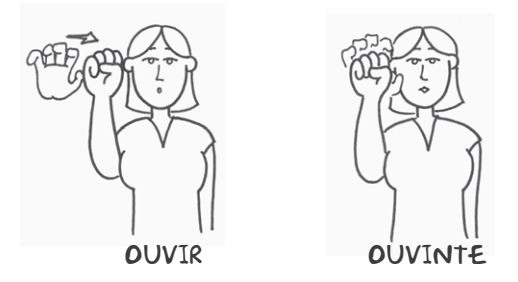
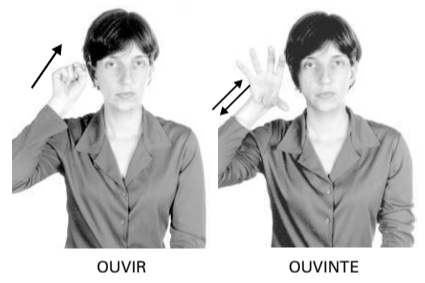
Progresso parcial (Morfologia / derivação)

diff --git a/capitulos/fundamentacao/linguistica_lingua_sinais.tex b/capitulos/fundamentacao/linguistica_lingua_sinais.tex
@@ -274,33 +274,147 @@ A morfologia é o estudo da estrutura interna e das regras que determinam a form
 
 Assim como as palavras em todas as línguas humanas, os sinais pertencem a categorias lexicais ou a classes de palavras tais como substantivo, verbo, pronome, adjetivo, advérbio, numerais, entre outras. A língua de sinais tem um léxico e um sistema de criação de novos sinais em que os morfemas são combinados. Entretanto, essas línguas diferem-se das línguas orais nos tipos de processos combinatórios que frequentemente criam palavras morfologicamente complexas. 
 
-Para as línguas orais, palavras complexas são muitas vezes formadas pela adição de um prefixo ou sufixo a uma raiz, como por exemplo \textit{des-}, \textit{ante-}, \textit{hiper-}, \textit{-ão}, \textit{-dade}, \textit{-ência}, entre outros. Nas línguas de sinais, essas formas resultam frequentemente de processos não-concatenativos em que uma raiz é enriquecida com vários movimentos e contornos no espaço de sinalização. São utilizadas expressões não-manuais, alterações nos parâmetros fonológicos ou sinais diferentes para indicar tempo, grau, intensidade, pluralidade, aspecto, entre outros~\cite{klima-bellugi-1975-wit-poetry-asl,quadros-2004-estudos-linguisticos}.
+Para as línguas orais, palavras complexas são muitas vezes formadas pela adição de um prefixo ou sufixo a uma raiz, como por exemplo \textit{des-}, \textit{ante-}, \textit{hiper-}, \textit{-ão}, \textit{-dade}, \textit{-ência}, entre outros. Por exemplo, o adjetivo ``infeliz'' é constituído de dois morfemas -- o prefixo negativo \textit{in-} e o adjetivo \textit{feliz} --; também o substantivo ``capacidade'' é composto do adjetivo \textit{capaz} e acrescido do sufixo \textit{-idade}; já o substantivo ``guarda-chuva'' é constituído pelos morfemas \textit{guarda} e \textit{chuva}.
 
-Por exemplo, no português, substantivos como ``boi'', ``sal'', e ``mar'' são constituídos de um único morfema -- ou seja,  são monomorfêmicos; o adjetivo ``infeliz'' é constituído de dois morfemas -- o prefixo negativo \textit{in-} e o adjetivo \textit{feliz} --; também o substantivo ``capacidade'' é composto do adjetivo \textit{capaz} e acrescido do sufixo \textit{-idade}; já o substantivo ``guarda-chuva'' é constituído pelos morfemas \textit{guarda} e \textit{chuva}.
+Nas línguas de sinais, essas formas resultam frequentemente de processos em que uma raiz é enriquecida com vários movimentos e contornos no espaço de sinalização. São utilizadas expressões não-manuais, alterações nos parâmetros fonológicos ou sinais específicos para indicar tempo, grau, intensidade, pluralidade, aspecto, entre outros~\cite{klima-bellugi-1975-wit-poetry-asl,quadros-2004-estudos-linguisticos}.
+
+De acordo com \citeonline{quadros-2004-estudos-linguisticos}, a morfologia tradicional apresenta dois processos de formação de palavras, a derivação e a flexão, os quais exploraremos a seguir:
+
+% A morfologia tradicional apresenta basicamente duas áreas de investiga-  ção: a derivacional e a flexional. A primeira detém-se ao estudo da formação de  diferentes palavras com uma mesma base lexical, por exemplo, no português  ‘sonhador’ é derivado de ‘sonhar’. A segunda envolve o estudo dos processos  que acrescentam informação gramatical à palavra que já existe.
+
+
+\begin{enumerate}
+    \item \textbf{Derivação}: consiste na formação de diferentes palavras a partir de uma mesma base lexical, como nos exemplos ``infeliz'' e ``capacidade'' introduzidos anteriormente. Na língua de sinais, alguns dos processos derivacionais incluem:
+    
+    % detém-se ao estudo da formação de  diferentes palavras com uma mesma base lexical, por exemplo, no português  ‘sonhador’ é derivado de ‘sonhar’.
+
+    \begin{enumerate}
+        \item \textbf{Nominalização} (ou derivação de nomes de verbos): uma das principais funções da morfologia é a mudança de classe, ou seja, a utilização do significado de uma palavra em uma outra classe gramatical.
+        Na língua de sinais, forma-se um novo sinal para se utilizar o significado de um sinal existente num contexto que requer uma classe gramatical diferente. 
+        
+        Um dos processos mais comuns nesse âmbito é a derivação de nomes a partir de verbos (ou vice-versa). Isso ocorre pela mudança no tipo de movimento, ou seja, apesar de apresentarem a mesma locação, configuração e orientação de mão, os nomes simplesmente repetem (ou reduplicam) a estrutura segmental dos verbos (vide \autoref{fig:sinais-pentear-pente} e \autoref{fig:sinais-ouvir-ouvinte}).
+        
+        \figura[p. 98]
+            {fig:sinais-pentear-pente} % Label
+            {imagens/fundamentacao/sinais_pentear_pente} % Path
+            {width=0.5\linewidth} % Size
+            {Sinal PENTE (à direita), que repete o movimento do verbo PENTEAR (à esquerda)} % Caption
+            {quadros-2004-estudos-linguisticos} % Citation
+        
+        \figura[p. 98]
+            {fig:sinais-ouvir-ouvinte} % Label
+            {imagens/fundamentacao/sinais_ouvir_ouvinte} % Path
+            {width=0.5\linewidth} % Size
+            {Sinal OUVINTE (à direita), que repete o movimento do verbo OUVIR (à esquerda)} % Caption
+            {quadros-2004-estudos-linguisticos} % Citation
+        
+
+        % Seguindo proposta de Supalla e Newport (1978) para a ASL, observa-se  que a língua de sinais brasileira pode derivar nomes de verbos pela mudança no tipo de movimento. O movimento dos nomes repete e encurta o movimento dos verbos, conforme exemplo da figura a seguir. 
+
+        % Supalla e Newport focalizam a análise do movimento e descrevem as  diferenças entre o movimento do verbo e do nome em detalhes, concluindo  que os pares apresentam a mesma locação, configuração e orientação de mão,  e que o nome simplesmente repete ou reduplica a estrutura segmental do  verbo, conforme exemplos a seguir. 
+        % Esse processo de repetição é chamado reduplicação. Semelhante à  nominalização no português, na língua de sinais brasileira repete-se o morfemabase (verbo) e tem-se como produto um nome. O processo de adicionar  morfemas a uma forma base é uma forma de criar novas unidades lexicais. 
+
+
+        \item \textbf{Composição}: processo em que se juntam duas bases preexistentes na língua para criar um novo vocábulo (ou composto). São exemplos de composição no português: trem-de-ferro, aguardente, ciclovia, entre outros.
+        
+        Na língua de sinais, três regras são utilizadas para criar compostos: a regra do contato (onde o contato existente no primeiro ou segundo sinal utilizado na composição é mantido, como na \autoref{fig:sinal-escola}), a regra da sequência única (onde o movimento interno ou repetição dos sinais é eliminada para formar o composto, como na \autoref{fig:sinal-pais}), e a regra da antecipação da mão não-dominante (onde a mão passiva antecipa o segundo sinal no processo de composição, como na \autoref{fig:sinal-acidente}).
+
+        \figura[p. 103]
+            {fig:sinal-escola} % Label
+            {imagens/fundamentacao/sinal_escola} % Path
+            {width=0.5\linewidth} % Size
+            {Sinal ESCOLA (composição de CASA e ESTUDAR)} % Caption
+            {quadros-2004-estudos-linguisticos} % Citation
+
+        \figura[p. 104]
+            {fig:sinal-pais} % Label
+            {imagens/fundamentacao/sinal_pais} % Path
+            {width=0.7\linewidth} % Size
+            {Sinal PAIS (à direita), composto por PAI (à esquerda) e MÃE (à direita)} % Caption
+            {quadros-2004-estudos-linguisticos} % Citation
+
+        \figura[p. 105]
+            {fig:sinal-acidente} % Label
+            {imagens/fundamentacao/sinal_acidente} % Path
+            {width=0.5\linewidth} % Size
+            {Sinal ACIDENTE (composição de CARRO e BATER)} % Caption
+            {quadros-2004-estudos-linguisticos} % Citation
+
+
+        % Segundo Rocha (1998, p. 187), a  composição é um processo autônomo em que se juntam duas bases preexistentes  na língua para criar um novo vocábulo, dito composto. São exemplos de composição no português:  Trem-de-ferro  Aguardente  Salário-família  Cadeira de balanço  Lipoaspiração  Ciclovia 
+
+        % Scott Liddel (1984) desenvolveu estudos sobre os compostos na ASL. Ele  observou que dois sinais formam um sinal composto quando mudanças  predicáveis ocorrem como o resultado de aplicação de regras, da mesma forma como acontece com palavras da língua inglesa. Ele apresenta dois tipos de  regras que causam as mudanças – regras morfológicas e regras fonológicas.  
+        % Regras morfológicas são aplicadas especificamente para criar novas unidades com significados (compostos). Três regras morfológicas são usadas para  criar compostos na ASL: (1) a regra do contato; (2) a regra da seqüência  única e (3) a regra da antecipação da mão não-dominante. Será observada a  aplicação de tais regras na língua de sinais brasileira. 
+
+        
+
+        \item \textbf{Incorporação de numeral}: nesse processo, morfemas são combinados com a configuração de mão de números para prover significado adicional ao sinal. Isso ocorre comumente para indicar variação do número de anos, dias, horas, minutos, entre outros. Por exemplo, a mudança na configuração de mão para 1, 2, 3 ou 4 na \autoref{fig:sinais-numero-meses} altera também o número de meses referido no sinal.
+        
+        \figura[p. 107]
+            {fig:sinais-numero-meses} % Label
+            {imagens/fundamentacao/sinais_numero_meses} % Path
+            {width=0.8\linewidth} % Size
+            {Sinais UM MÊS, DOIS MESES, TRÊS MESES, e QUATRO MESES} % Caption
+            {quadros-2004-estudos-linguisticos} % Citation
+
+
+
+        \item \textbf{Incorporação de negação}: é possível dar origem à contraparte negativa de um sinal pela alteração de um de seus parâmetros (geralmente o movimento), conforme exemplifica a \autoref{fig:sinais-saber-naosaber}.
+        
+        \figura[p. 111]
+            {fig:sinais-saber-naosaber} % Label
+            {imagens/fundamentacao/sinais_saber_naosaber} % Path
+            {width=0.5\linewidth} % Size
+            {Sinal SABER e sua negação NÃO SABER} % Caption
+            {quadros-2004-estudos-linguisticos} % Citation
+
+        Pode-se também marcar essa negação pela adição de uma expressão facial, sem que haja alteração nos parâmetros do sinal (vide \autoref{fig:sinais-conhecer-naoconhecer}).
+
+        \figura[p. 111]
+            {fig:sinais-conhecer-naoconhecer} % Label
+            {imagens/fundamentacao/sinais_conhecer_naoconhecer} % Path
+            {width=0.5\linewidth} % Size
+            {Sinal CONHECER e sua negação NÃO CONHECER} % Caption
+            {quadros-2004-estudos-linguisticos} % Citation
+
+        % Há também outro processo produtivo na língua de sinais brasileira que é a  incorporação da negação. Há alguns sinais que podem incorporar a negação conforme identificado por Ferreira-Brito (1995). A autora menciona que “através de  vários processos, o item a ser negado sofre alteração em um dos parâmetros,  especialmente o parâmetro Movimento, acarretando, assim, o aparecimento de  um item de estrutura ‘fonético-fonológico’ diferente daquele que é a sua base, ou  seja, o aparecimento de sua contraparte negativa” (Ferreira-Brito, 1995, p. 77).  Alguns dos exemplos elencados pela autora foram os seguintes: 
+
+        % Além da incorporação da negação nos sinais, há a negação de forma  marcada através da expressão facial incorporada ao sinal sem alteração de  nenhum dos parâmetros. Este caso é relacionado por Ferreira-Brito (1995)  como negação supra-segmental. 
+
+    \end{enumerate}
+
+
+    \item \textbf{Flexão}:
+    
+    % envolve o estudo dos processos  que acrescentam informação gramatical à palavra que já existe.
+
+\end{enumerate}
+
+
 
 %Na língua de sinais, não há sinais para afixos como \textit{in-}, \textit{-idade}, entre outros, que alteram o significado das palavras. Em vez disso, são utilizadas expressões não-manuais, alterações nos parâmetros fonológicos ou sinais diferentes para indicar tempo, grau, intensidade, pluralidade, aspecto e muito mais. 
 
-Observe na \autoref{fig:sinais-sentar-cadeira} os sinais SENTAR e CADEIRA da \acrshort{libras}. Eles possuem a mesma configuração de mãos, locação e orientação das palmas das mãos. No entanto, o movimento é o parâmetro que os diferencia: é mais longo em SENTAR e mais curto e repetido em CADEIRA: 
+% Observe na \autoref{fig:sinais-sentar-cadeira} os sinais SENTAR e CADEIRA da \acrshort{libras}. Eles possuem a mesma configuração de mãos, locação e orientação das palmas das mãos. No entanto, o movimento é o parâmetro que os diferencia: é mais longo em SENTAR e mais curto e repetido em CADEIRA: 
 
 %Em ASL, não há sinais para afixos como “en”, “ing”, “ly” etc. para alterar o significado das palavras. 
 %Em vez disso, o ASL usa marcadores não manuais, alterações nos parâmetros e outros sinais para indicar tempo, grau, intensidade, pluralidade, aspecto e muito mais.
 
-\figura[p. 70]
-    {fig:sinais-sentar-cadeira} % Label
-    {imagens/fundamentacao/sinais_sentar_cadeira} % Path
-    {width=0.5\linewidth} % Size
-    {Sinais SENTAR e CADEIRA da \acrshort{libras}} % Caption
-    {pereira-2011-conhecimento-alem-sinais} % Citation
+% \figura[p. 70]
+%     {fig:sinais-sentar-cadeira} % Label
+%     {imagens/fundamentacao/sinais_sentar_cadeira} % Path
+%     {width=0.5\linewidth} % Size
+%     {Sinais SENTAR e CADEIRA da \acrshort{libras}} % Caption
+%     {pereira-2011-conhecimento-alem-sinais} % Citation
 
 
-Algo semelhante ocorre com os sinais OUVIR e OUVINTE (vide \autoref{fig:sinais-ouvir-ouvinte}): o movimento de fechar as mãos próximo ao ouvido é mais curto e repetido em OUVINTE, enquanto que no sinal OUVIR, onde a mão se desloca em direção ao ouvido.
+% Algo semelhante ocorre com os sinais OUVIR e OUVINTE (vide \autoref{fig:sinais-ouvir-ouvinte}): o movimento de fechar as mãos próximo ao ouvido é mais curto e repetido em OUVINTE, enquanto que no sinal OUVIR, onde a mão se desloca em direção ao ouvido.
 
-\figura[p. 71]
-    {fig:sinais-ouvir-ouvinte} % Label
-    {imagens/fundamentacao/sinais_ouvir_ouvinte} % Path
-    {width=0.5\linewidth} % Size
-    {Sinais OUVIR e OUVINTE da \acrshort{libras}} % Caption
-    {pereira-2011-conhecimento-alem-sinais} % Citation
+% \figura[p. 71]
+%     {fig:sinais-ouvir-ouvinte} % Label
+%     {imagens/fundamentacao/sinais_ouvir_ouvinte} % Path
+%     {width=0.5\linewidth} % Size
+%     {Sinais OUVIR e OUVINTE da \acrshort{libras}} % Caption
+%     {pereira-2011-conhecimento-alem-sinais} % Citation
 
 
 % A morfologia é o ramo da linguística que estuda como as palavras são formadas a partir de partes componentes. Um morfema é geralmente descrito como um par consistente de forma (por exemplo, uma sequência de sons ou uma combinação de formato de mão, localização e movimento) e significado, mas existem morfemas que mudam de forma em diferentes contextos, bem como aqueles que não mudam. t parecem ter um significado consistente. \cite{hill-2019-sign-languages}
@@ -310,104 +424,104 @@ Algo semelhante ocorre com os sinais OUVIR e OUVINTE (vide \autoref{fig:sinais-o
 
 
 % TODO: revisar este prefácio:
-\citeonline{jay-2011-dont-just-sign} descreve a morfologia da língua de sinais em termos dos seguintes elementos:
+% \citeonline{jay-2011-dont-just-sign} descreve a morfologia da língua de sinais em termos dos seguintes elementos:
  
-\begin{enumerate}
-    \item \textbf{Flexões (advérbios)}: advérbios podem modificar adjetivos, verbos, ou outros advérbios para indicar tempo, local, forma, causa, ou intensidade. Como não há sinais específicos na língua de sinais para os advérbios, eles são criados através da adição de flexões, as quais podem incluir: o uso de expressões faciais mais intensas, o aumento ou diminuição da velocidade de sinalização, o uso de movimentos mais maiores ou mais largos, a sinalização mais nítida ou detalhada de um sinal, o aceno mais rápido ou mais vagaroso com a cabeça, entre outros.
+% \begin{enumerate}
+%     \item \textbf{Flexões (advérbios)}: advérbios podem modificar adjetivos, verbos, ou outros advérbios para indicar tempo, local, forma, causa, ou intensidade. Como não há sinais específicos na língua de sinais para os advérbios, eles são criados através da adição de flexões, as quais podem incluir: o uso de expressões faciais mais intensas, o aumento ou diminuição da velocidade de sinalização, o uso de movimentos maiores ou mais largos, a sinalização mais detalhada de um sinal, o aceno mais rápido ou vagaroso com a cabeça, entre outros.
     
-    Sinais diferentes são normalmente flexionados de maneiras diferentes. Sendo assim, a flexão dependerá principalmente do sinal que estiver sendo utilizado. A imagem \autoref{fig:sinais-lindo-lindinho-lindissimo} mostra o exemplo do sinal LINDO que é flexionado utilizando expressões faciais para transmitir a ideia de ``pouco'' e ``muito'' lindo, respectivamente nos sinais LINDINHO e LINDÍSSIMO.
+%     Sinais diferentes são normalmente flexionados de maneiras diferentes. A imagem \autoref{fig:sinais-lindo-lindinho-lindissimo} mostra o exemplo do sinal LINDO que é flexionado utilizando expressões faciais para transmitir a ideia de ``pouco'' e ``muito'' lindo, respectivamente nos sinais LINDINHO e LINDÍSSIMO.
     
-    \figura[p. 65]
-        {fig:sinais-lindo-lindinho-lindissimo} % Label
-        {imagens/fundamentacao/sinais_lindo_lindinho_lindissimo} % Path
-        {width=0.5\linewidth} % Size
-        {Sinais LINDO, LINDINHO e LINDÍSSIMO da \acrshort{libras}} % Caption
-        {pereira-2011-conhecimento-alem-sinais} % Citation
+%     \figura[p. 65]
+%         {fig:sinais-lindo-lindinho-lindissimo} % Label
+%         {imagens/fundamentacao/sinais_lindo_lindinho_lindissimo} % Path
+%         {width=0.5\linewidth} % Size
+%         {Sinais LINDO, LINDINHO e LINDÍSSIMO da \acrshort{libras}} % Caption
+%         {pereira-2011-conhecimento-alem-sinais} % Citation
 
-    \item \textbf{Pares substantivo-verbo}: pares substantivo-verbo são sinais que usam o mesmo formato de mão, locação e orientação, mas usam um movimento diferente para indicar a diferença entre o substantivo e o verbo. Um verbo sinalizado geralmente tem um movimento único e contínuo, enquanto um substantivo geralmente tem um movimento duplo.  
-    Um exemplo disso é ilustrado para os sinais SENTAR e CADEIRA na \autoref{fig:sinais-sentar-cadeira}.
+%     \item \textbf{Pares substantivo-verbo}: pares substantivo-verbo são sinais que utilizam o mesmo formato de mão, locação e orientação, mas usam movimentos distintos para  diferenciar entre substantivo e verbo. Um verbo sinalizado geralmente tem um movimento único e contínuo, enquanto um substantivo geralmente tem um movimento duplo.  
+%     Um exemplo disso é ilustrado para os sinais SENTAR e CADEIRA na \autoref{fig:sinais-sentar-cadeira}.
     
 
-    \item \textbf{Classificadores}: línguas faladas são lineares, ou seja, são expressas uma palavra após a outra. As línguas de sinal, no entanto, são espaciais e expressas no espaço ao redor do sinalizador. Nesse contexto, os classificadores criam profundidade e adicionam clareza, movimento e detalhes às conversas e explicações.
+%     \item \textbf{Classificadores}: línguas faladas são lineares, ou seja, são expressas uma palavra após a outra. As línguas de sinais, no entanto, são espaciais e expressas no espaço ao redor do sinalizador. Nesse contexto, os classificadores criam profundidade e adicionam clareza, movimento e detalhes às conversas e explicações.
 
-    Faz muito mais sentido criar pessoas, animais ou objetos imaginários no espaço de enunciação e mostrar o que acontece com eles em vez de explicar cada palavra de forma linear como você faria oralmente. No entanto, assim como se faz com pronomes na língua falada, não se pode utilizar um classificador em uma frase até explicar o que o ele representa -- ou seja, é necessário primeiro estabelecer o substantivo.
+%     Faz mais sentido criar pessoas, animais ou objetos imaginários no espaço de enunciação e mostrar o que acontece com eles em vez de explicar cada palavra de forma linear como você faria oralmente. No entanto, assim como se faz com pronomes na língua falada, não se pode utilizar um classificador em uma frase até explicar o que o ele representa -- ou seja, é necessário primeiro estabelecer o substantivo.
 
-    A \autoref{fig:sinais-pessoas-andar-cair} ilustra um classificador comumente utilizado para referir-se a DUAS PESSOAS. Combinado ao movimento de ANDAR, é interpretado como DUAS PESSOAS ANDAM; combinado ao movimento de CAIR, é interpretado como DUAS PESSOAS CAEM.
+%     A \autoref{fig:sinais-pessoas-andar-cair} ilustra um classificador comumente utilizado para referir-se a DUAS PESSOAS. Combinado ao movimento de ANDAR, é interpretado como DUAS PESSOAS ANDAM; combinado ao movimento de CAIR, é interpretado como DUAS PESSOAS CAEM.
 
-    \figura[p. 83]
-        {fig:sinais-pessoas-andar-cair} % Label
-        {imagens/fundamentacao/sinais_pessoas_andar_cair} % Path
-        {width=0.5\linewidth} % Size
-        {Classificador utilizado para DUAS PESSOAS, combinado aos movimentos de ANDAR e CAIR} % Caption
-        {pereira-2011-conhecimento-alem-sinais} % Citation
+%     \figura[p. 83]
+%         {fig:sinais-pessoas-andar-cair} % Label
+%         {imagens/fundamentacao/sinais_pessoas_andar_cair} % Path
+%         {width=0.5\linewidth} % Size
+%         {Classificador utilizado para DUAS PESSOAS, combinado aos movimentos de ANDAR e CAIR} % Caption
+%         {pereira-2011-conhecimento-alem-sinais} % Citation
 
-    Há um número infinito de classificadores e pode-se combinar praticamente qualquer forma de mão com qualquer movimento e locação para criar um classificador.
-    Alguns dos diferentes tipos de classificadores incluem: integrais (que representam um objeto inteiro), de superfícies, de instrumentos, de proporção (tamanho ou profundidade), de quantidade, de forma, de localização, de gestos, de partes do corpo (realizando uma ação), de verbos (que mostram como uma ação é realizada), ou de plural (que representam múltiplos itens).
-
-
-    % Línguas faladas como o inglês são lineares — são expressas uma palavra após a outra. ASL, no entanto, é uma linguagem espacial e é expressa no espaço ao seu redor. Os classificadores criam profundidade e adicionam clareza, movimento e detalhes às conversas e explicações.
-    % Em ASL, faz muito mais sentido criar pessoas, animais ou objetos imaginários em seu espaço de sinalização e mostrar o que acontece com eles em vez de explicar cada palavra de forma linear como você faria em inglês.
-    % As formas de mão e os movimentos dos classificadores podem representar pessoas, animais, objetos, etc. e mostrar movimentos, formas, ações e locais. Eles podem mostrar uma pessoa andando, um animal mastigando, alguém dirigindo, um carro passando pelas montanhas — praticamente qualquer coisa!
-    % Em uma frase, um classificador é muito semelhante a um pronome. Você não pode usar um classificador em uma frase até explicar o que o classificador representa. Não são palavras isoladas. Você precisa estabelecer o substantivo antes de aplicar o classificador.
-    % Um exemplo de classificador seria mostrar uma pessoa andando. Você primeiro tem que estabelecer essa pessoa como um referente no contexto e apontar para o referente, e então você pode pegar o dedo indicador de sua mão dominante (o classificador CL: 1) e movê-lo pelo seu espaço de sinalização. O que quer que você faça com este classificador é o que a pessoa está fazendo. Você também pode flexionar o sinal para um significado adicional. Quanto mais rápido ou mais devagar você mover esse classificador, mostra o quão rápido ou lento a pessoa está realizando uma ação. Você também pode usar marcadores não manuais para mostrar como a pessoa está se sentindo ao fazê-lo. E como a maioria das formas de mão do classificador representa uma pessoa ou objeto inteiro, você pode combinar classificadores como CL: 1(pessoa) com outro classificador como CL: 3(carro) para mostrar uma pessoa e um carro e suas localizações em relação um ao outro. Aqui estão dois exemplos de uso de classificadores com as duas mãos ao mesmo tempo:
-    % [...]
-    % Há um número infinito de classificadores que você pode usar. Você pode combinar quase qualquer forma de mão com qualquer movimento e localização para criar um classificador.
+%     Há um número infinito de classificadores e pode-se combinar praticamente qualquer forma de mão com qualquer movimento e locação para criar um classificador.
+%     Alguns dos diferentes tipos de classificadores incluem: integrais (que representam um objeto inteiro), de superfícies, de instrumentos, de proporção (tamanho ou profundidade), de quantidade, de forma, de localização, de gestos, de partes do corpo (realizando uma ação), de verbos (que mostram como uma ação é realizada), ou de plural (que representam múltiplos itens).
 
 
-    \item \textbf{Verbos}: há três tipos principais de verbos na língua de sinais: verbos simples, que não se flexionam em pessoa e número, e não incorporam afixos locativos (vide exemplos na \autoref{fig:verbos-simples});
-    verbos direcionais, que flexionam-se em pessoa, número e aspecto, mas não incorporam afixos locativos (vide \autoref{fig:verbos-direcionais}); e
-    verbos espaciais, que incorporam afixos locativos (vide \autoref{fig:verbos-espaciais}).
+%     % Línguas faladas como o inglês são lineares — são expressas uma palavra após a outra. ASL, no entanto, é uma linguagem espacial e é expressa no espaço ao seu redor. Os classificadores criam profundidade e adicionam clareza, movimento e detalhes às conversas e explicações.
+%     % Em ASL, faz muito mais sentido criar pessoas, animais ou objetos imaginários em seu espaço de sinalização e mostrar o que acontece com eles em vez de explicar cada palavra de forma linear como você faria em inglês.
+%     % As formas de mão e os movimentos dos classificadores podem representar pessoas, animais, objetos, etc. e mostrar movimentos, formas, ações e locais. Eles podem mostrar uma pessoa andando, um animal mastigando, alguém dirigindo, um carro passando pelas montanhas — praticamente qualquer coisa!
+%     % Em uma frase, um classificador é muito semelhante a um pronome. Você não pode usar um classificador em uma frase até explicar o que o classificador representa. Não são palavras isoladas. Você precisa estabelecer o substantivo antes de aplicar o classificador.
+%     % Um exemplo de classificador seria mostrar uma pessoa andando. Você primeiro tem que estabelecer essa pessoa como um referente no contexto e apontar para o referente, e então você pode pegar o dedo indicador de sua mão dominante (o classificador CL: 1) e movê-lo pelo seu espaço de sinalização. O que quer que você faça com este classificador é o que a pessoa está fazendo. Você também pode flexionar o sinal para um significado adicional. Quanto mais rápido ou mais devagar você mover esse classificador, mostra o quão rápido ou lento a pessoa está realizando uma ação. Você também pode usar marcadores não manuais para mostrar como a pessoa está se sentindo ao fazê-lo. E como a maioria das formas de mão do classificador representa uma pessoa ou objeto inteiro, você pode combinar classificadores como CL: 1(pessoa) com outro classificador como CL: 3(carro) para mostrar uma pessoa e um carro e suas localizações em relação um ao outro. Aqui estão dois exemplos de uso de classificadores com as duas mãos ao mesmo tempo:
+%     % [...]
+%     % Há um número infinito de classificadores que você pode usar. Você pode combinar quase qualquer forma de mão com qualquer movimento e localização para criar um classificador.
 
-    \figura[p. 76]
-        {fig:verbos-simples} % Label
-        {imagens/fundamentacao/verbos_simples} % Path
-        {width=0.5\linewidth} % Size
-        {Verbos simples DIRIGIR, COMER, e PARECER} % Caption
-        {pereira-2011-conhecimento-alem-sinais} % Citation
 
-    \figura[p. 77]
-        {fig:verbos-direcionais} % Label
-        {imagens/fundamentacao/verbos_direcionais} % Path
-        {width=0.5\linewidth} % Size
-        {Verbos direcionais PERGUNTAR e RESPONDER} % Caption
-        {pereira-2011-conhecimento-alem-sinais} % Citation
+%     \item \textbf{Verbos}: há três tipos principais de verbos na língua de sinais: verbos simples, que não se flexionam em pessoa e número, e não incorporam afixos locativos (vide exemplos na \autoref{fig:verbos-simples});
+%     verbos direcionais, que flexionam-se em pessoa, número e aspecto, mas não incorporam afixos locativos (vide \autoref{fig:verbos-direcionais}); e
+%     verbos espaciais, que incorporam afixos locativos (vide \autoref{fig:verbos-espaciais}).
 
-    \figura[p. 77]
-        {fig:verbos-espaciais} % Label
-        {imagens/fundamentacao/verbos_espaciais} % Path
-        {width=0.5\linewidth} % Size
-        {Verbos espaciais IR, CHEGAR, e POR} % Caption
-        {pereira-2011-conhecimento-alem-sinais} % Citation
+%     \figura[p. 76]
+%         {fig:verbos-simples} % Label
+%         {imagens/fundamentacao/verbos_simples} % Path
+%         {width=0.5\linewidth} % Size
+%         {Verbos simples DIRIGIR, COMER, e PARECER} % Caption
+%         {pereira-2011-conhecimento-alem-sinais} % Citation
 
-    \item \textbf{Tempo}: como não há afixos na língua de sinais para alterar o tempo verbal, ele é comunicado adicionando-se sinais de tempo e flexões desses sinais. Dessa forma, para expressar que ``eu \underline{fui} ao cinema'', seria utilizada a sequência de sinais ``ONTEM EU IR CINEMA''.    
-    Sinas de tempo que indicam futuro movem-se para frente; os que indicam passado movem-se para trás; e os que indicam presente são sinalizados à frente do corpo do sinalizador (vide \autoref{fig:sinais-tempo-semana}).
+%     \figura[p. 77]
+%         {fig:verbos-direcionais} % Label
+%         {imagens/fundamentacao/verbos_direcionais} % Path
+%         {width=0.5\linewidth} % Size
+%         {Verbos direcionais PERGUNTAR e RESPONDER} % Caption
+%         {pereira-2011-conhecimento-alem-sinais} % Citation
+
+%     \figura[p. 77]
+%         {fig:verbos-espaciais} % Label
+%         {imagens/fundamentacao/verbos_espaciais} % Path
+%         {width=0.5\linewidth} % Size
+%         {Verbos espaciais IR, CHEGAR, e POR} % Caption
+%         {pereira-2011-conhecimento-alem-sinais} % Citation
+
+%     \item \textbf{Tempo}: como não há afixos na língua de sinais para alterar o tempo verbal, ele é comunicado adicionando-se sinais de tempo e flexões desses sinais. Dessa forma, para expressar que ``eu \underline{fui} ao cinema'', seria utilizada a sequência de sinais ``ONTEM EU IR CINEMA''.    
+%     Sinas de tempo que indicam futuro movem-se para frente; os que indicam passado movem-se para trás; e os que indicam presente são sinalizados à frente do corpo do sinalizador (vide \autoref{fig:sinais-tempo-semana}).
     
-    \figura[p. 101]
-        {fig:sinais-tempo-semana} % Label
-        {imagens/fundamentacao/sinais_tempo_semana} % Path
-        {width=0.5\linewidth} % Size
-        {Sinais de tempo para SEMANA PASSADA (esquerda), ESTA SEMANA (centro), e PRÓXIMA SEMANA (direita)} % Caption
-        {jay-2011-dont-just-sign} % Citation
+%     \figura[p. 101]
+%         {fig:sinais-tempo-semana} % Label
+%         {imagens/fundamentacao/sinais_tempo_semana} % Path
+%         {width=0.5\linewidth} % Size
+%         {Sinais de tempo para SEMANA PASSADA (esquerda), ESTA SEMANA (centro), e PRÓXIMA SEMANA (direita)} % Caption
+%         {jay-2011-dont-just-sign} % Citation
 
-    Numerais podem ser incorporados ao sinais de tempo para especificar número (ou quantidade) de semanas, horas, minutos, anos, meses, dias, entre outros. Observe na \autoref{fig:sinais-cada-tres-semanas} como o sinal SEMANA foi flexionado para expressar TRÊS SEMANAS.
+%     Numerais podem ser incorporados ao sinais de tempo para especificar número (ou quantidade) de semanas, horas, minutos, anos, meses, dias, entre outros. Observe na \autoref{fig:sinais-cada-tres-semanas} como o sinal SEMANA foi flexionado para expressar TRÊS SEMANAS.
 
-    Além disso, outras flexões podem ser adicionadas a esses sinais para transmitir significado de duração prolongada (como ``o dia inteiro'' ou ``a noite inteira'', por exemplo) ou de eventos que se repetem numa base regular (como ``a cada três semanas'', ``toda segunda-feira'', ou ``todas as manhãs'', por exemplo). Nesse caso, a flexão pode ocorrer por meio de alterações no movimento ou nas expressões faciais. A \autoref{fig:sinais-dia-inteiro} mostra o sinal DIA sendo flexionado para DIA INTEIRO; a \autoref{fig:sinais-cada-tres-semanas}, por sua vez, ilustra a repetição do sinal TRÊS SEMANAS para expressar a regularidade de A CADA TRÊS SEMANAS.
+%     Além disso, outras flexões podem ser adicionadas a esses sinais para transmitir significado de duração prolongada (como ``o dia inteiro'' ou ``a noite inteira'', por exemplo) ou de eventos que se repetem numa base regular (como ``a cada três semanas'', ``toda segunda-feira'', ou ``todas as manhãs'', por exemplo). Nesse caso, a flexão pode ocorrer por meio de alterações no movimento ou nas expressões faciais. A \autoref{fig:sinais-dia-inteiro} mostra o sinal DIA sendo flexionado para DIA INTEIRO; a \autoref{fig:sinais-cada-tres-semanas}, por sua vez, ilustra a repetição do sinal TRÊS SEMANAS para expressar a regularidade de A CADA TRÊS SEMANAS.
     
-    \figura[p. 106]
-        {fig:sinais-dia-inteiro} % Label
-        {imagens/fundamentacao/sinais_dia_inteiro} % Path
-        {width=0.50\linewidth} % Size
-        {Sinal de tempo DIA (esquerda) e flexão para expressar duração de DIA INTEIRO (direita)} % Caption
-        {jay-2011-dont-just-sign} % Citation
+%     \figura[p. 106]
+%         {fig:sinais-dia-inteiro} % Label
+%         {imagens/fundamentacao/sinais_dia_inteiro} % Path
+%         {width=0.50\linewidth} % Size
+%         {Sinal de tempo DIA (esquerda) e flexão para expressar duração de DIA INTEIRO (direita)} % Caption
+%         {jay-2011-dont-just-sign} % Citation
 
-    \figura[p. 106]
-        {fig:sinais-cada-tres-semanas} % Label
-        {imagens/fundamentacao/sinais_cada_tres_semanas} % Path
-        {width=0.50\linewidth} % Size
-        {Sinal de tempo TRÊS SEMANAS (esquerda) e flexão para expressar regularidade de A CADA TRÊS SEMANAS (direita)} % Caption
-        {jay-2011-dont-just-sign} % Citation
+%     \figura[p. 106]
+%         {fig:sinais-cada-tres-semanas} % Label
+%         {imagens/fundamentacao/sinais_cada_tres_semanas} % Path
+%         {width=0.50\linewidth} % Size
+%         {Sinal de tempo TRÊS SEMANAS (esquerda) e flexão para expressar regularidade de A CADA TRÊS SEMANAS (direita)} % Caption
+%         {jay-2011-dont-just-sign} % Citation
 
-\end{enumerate}
+% \end{enumerate}
 
 
 
@@ -526,39 +640,6 @@ Algo semelhante ocorre com os sinais OUVIR e OUVINTE (vide \autoref{fig:sinais-o
 
 
 
-% \cite{pereira-2011-conhecimento-alem-sinais}
-% Primeiros estudos (intro a linguística):
-% As primeiras pesquisas linguísticas sobre as línguas de sinais,  mais especificamente sobre a língua de sinais americana, foram realizadas por William Stokoe, no início dos anos 1960, e tiveram como objetivo mostrar que os sinais poderiam ser vistos  como mais do que gestos holísticos aos quais faltava uma estrutura interna (Stokoe, 1960) . Ao contrário do que se poderia pensar à primeira vista, eles poderiam ser descritos em termos de um  conjunto limitado de elementos formacionais que se combinavam para formar os sinais .  
-% A análise das propriedades formais da língua de sinais americana revelou que ela apresenta organização formal nos mesmos níveis encontrados nas línguas faladas, incluindo um nível sublexical de estruturação interna do sinal (análoga ao nível fonológico das línguas orais) e um nível gramatical, que especifica os modos como os sinais devem ser combinados para formarem frases e orações (Klima e Bellugi, 1979).  
-% Aos estudos sobre a língua de sinais americana se seguiram outros, cujo objeto eram as línguas de sinais usadas pelas comunidades de surdos em diferentes países, como França, Itália, Uruguai,  Argentina, Suécia, Brasil e muitos outros.  
-% Essas línguas são diferentes umas das outras e independem das línguas orais utilizadas nesses países 
-
-
-% \cite{stewart-2021-barrons-asl}
-% ASL Awareness
-% Awareness of ASL has been growing since Professor William C. Stokoe, Jr., of Gallaudet University, known as the father of ASL linguistics, published his research on the linguistics of ASL about sixty years ago. His first paper, published in 1960, is titled "Sign Language Structure". This was followed by the first dictionary of ASL in 1965, Dictionary of American Sign Language on Linguistic Principles. Stokoe compiled the dictionary with two Deaf colleagues at Gallaudet, Carl Croneberg and Dorothy Casterline. In 1971, Stokoe established the Linguistic Research Laboratory at Gallaudet. Stokoe's work had a profound impact on ASL awareness in the United States and throughout the world, and we've even come a long way since then.
-% ASL courses in high schools and colleges are booming. The television and movies industry has discovered the value of including Deaf actors and actresses in films. [...]
-
-% The Physical Dimensions of ASL: The Five Parameters
-% ASL is a visual-gestural language. It is visual because we see it and gestural because the signs are formed by the hands. Signing alone, however, is not an accurate picture of ASL. How signs are formed in space is important to understanding what they mean. The critical space is called the signing space and extends from the waist to just above the head and to just beyond the sides of the body. This is also the space in which the hands can move comfortably. As you will learn in this book, the signing space has a role in ASL grammar. Two or more concepts can be simultaneously expressed in ASL. This feat cannot be accomplished in a spoken language because speech is temporal in that one word rolls off the tongue at a time. One further dimension of ASL is the movement of the head and facial expressions, which help shape the meaning of ASL sentences.
-
-% How Are Signs Formed?
-% The five parameters below come together to create a sign.
-% 1) Handshape is the shape of the hands when the sign is formed. The handshape may remain the same throughout the sign or it can change. If two hands are use to make a sign, both hands can have the same handshape of be different.
-% 2) Orientation is the position of the hand(s) relative to the body. For example, the palms can be facing the body or away from the body, facing the ground, or facing upward.
-% 3) Location is the place in the signing space where a sign is formed. Signs can be stationary [...] or they can move from one location in the signing space to another [...].
-% 4) Movement of a sign is the direction in which the hand moves relative to the body. There is a variety of movements that range from a simple sliding movement [...] to a complex movement.
-% 5) Nonmanual markers add to signs to create meaning. They consist of various facial expressions, head tilting, shoulder movement, and mouth movements. With a non-manual marker, the meaning of the sign can change completely.
-
-% -----
-% ASL Grammar
-% ASL has visual, spatial, and gestural features that combine to create some grammatical structures that are unparalleled in the world of spoken languages. As you learn about ASL grammar, look for similarities in the world of spoken languages. [...]
-% In particular, the spatial qualities of ASL grammar allow a signer to express more than one thought simultaneously -- a characteristic that cannot be duplicated in English. Facial grammar, or nonmanual signals, is also a significant component of ASL.
-
-% Facial Grammar
-% What's in a sign may not be what's in the mind. To capture the sense of what a signer is signing, you must read the signer's face and body. When you listen to someone speak, you listen not only to the words but also to how the words are spoken. The tone of the voice, the rise and fall of the pitch, the length of the pause, and the steadiness of voice are all features that you latch onto with little effort in your spoken communication.
-% These traits are nonexistent in signing, but they do have parallel traits that are crucial to ASL's grammar. The raised eyebrow, the tilted head, the open mouth, hunching of the shoulders, and a sign held slightly longer than others shape the meaning of the signs that are made by the hands. We call these nonmanual signals (NMS) facial grammar, which allows you to use facial expressions, your body, and gestures to add meaning and additional information to your signing. Mastering ASL cannot occur without a mastery of facial grammar.
-
 
 
 
@@ -668,6 +749,13 @@ Algo semelhante ocorre com os sinais OUVIR e OUVINTE (vide \autoref{fig:sinais-o
 % Flexão nominal  
 % Diferentemente da língua portuguesa na modalidade oral, que  apresenta flexão de gênero modificando os nomes, a indicação de  sexo na Libras é marcada por um sinal que indica marca de gênero feminino ou masculino, antecedendo o nome .  
 % Nos substantivos, a flexão de plural é obtida, na maioria das  vezes, pela repetição do sinal, pela anteposição ou posposição de  sinais referentes aos números, ou pelo movimento semicircular, que deve abranger as pessoas ou os objetos envolvidos (Brito, 1995) 
+
+
+% Aspectos sintáticos
+% Embora pesquisas sobre a ordem dos sinais na Libras refiram  S-V-O como predominante (Quadros, 1999), a ordem tópico-comentário parece ser a mais utilizada, principalmente pelos surdos  menos oralizados, como se pode observar nos exemplos a seguir 
+% [IMAGENS/EXEMPLOS]
+
+
 
 
 
